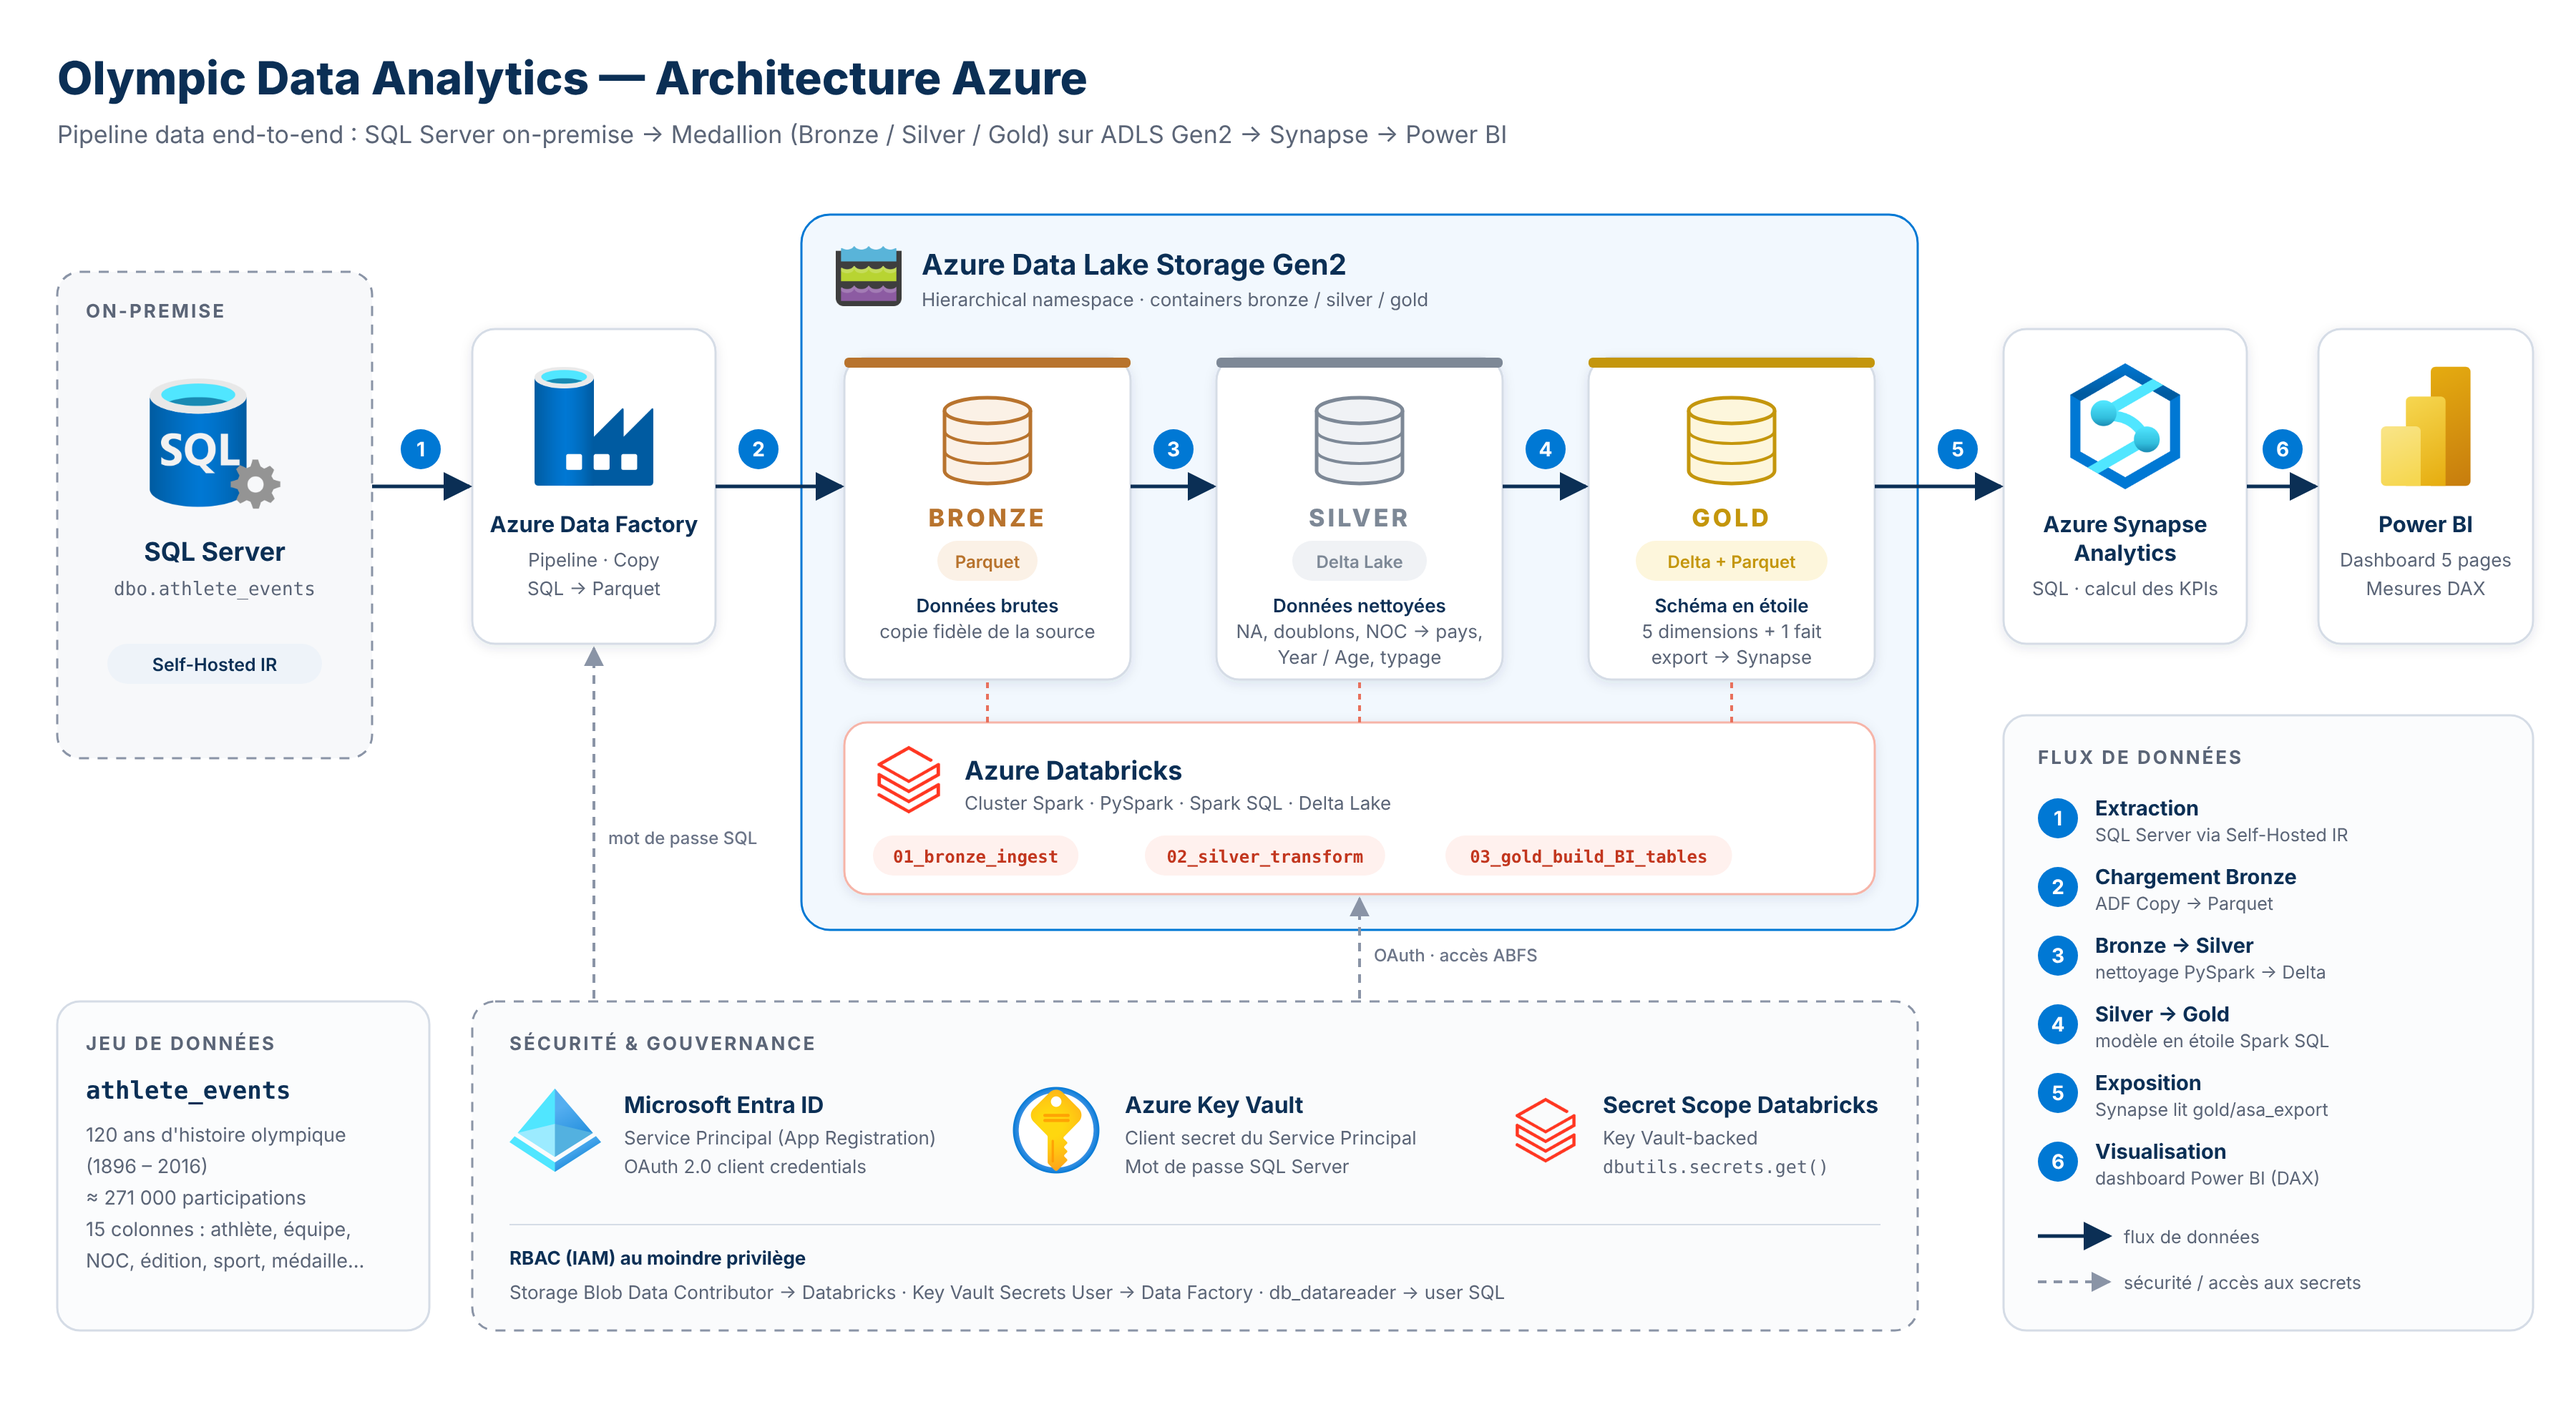
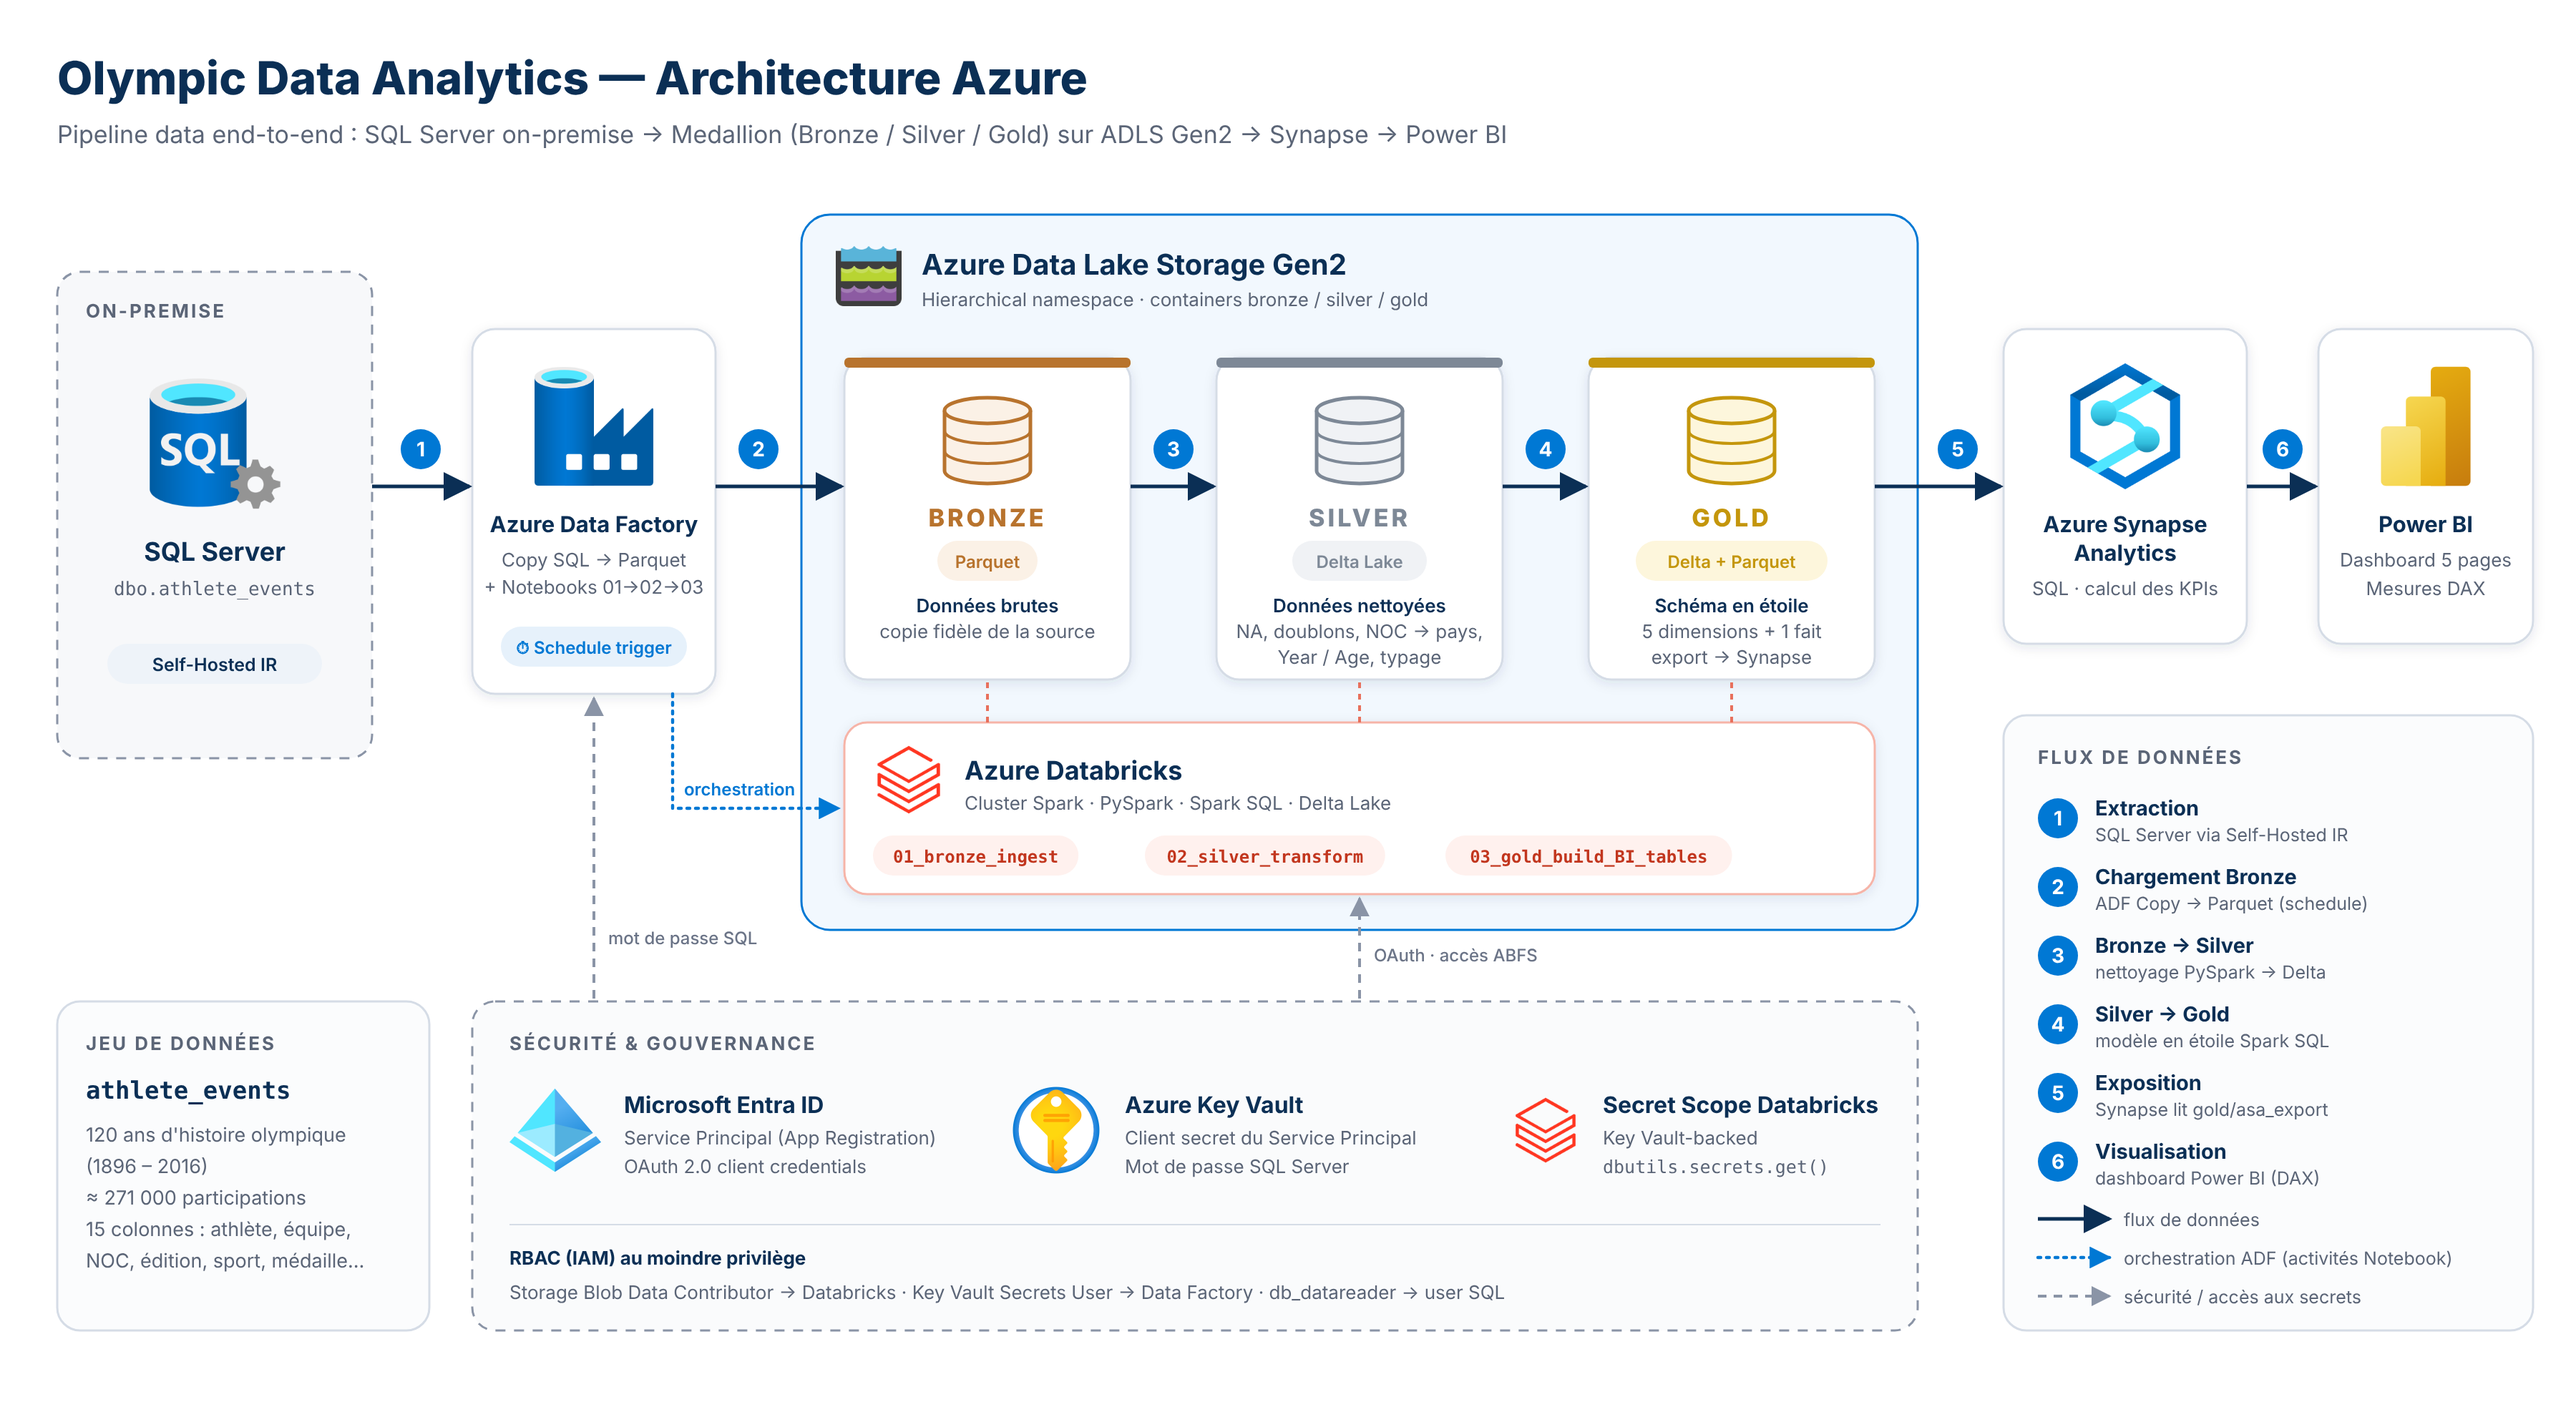
docs: orchestration ADF du pipeline complet, nouveau schéma et section auteur

diff --git a/README.md b/README.md
@@ -60,6 +60,7 @@ On-Prem SQL Server ──(ADF + Self-Hosted IR)──▶ ADLS Gen2 [bronze]  (Pa
                                         Azure Synapse Analytics (SQL)
                                                    ▼
                                                Power BI
+        Orchestration : un pipeline ADF unique (Copy → Notebook 01 → 02 → 03) déclenché par un Schedule Trigger
         Sécurité transverse : Microsoft Entra ID (Service Principal, RBAC) + Azure Key Vault
 ```
 
@@ -70,7 +71,7 @@ On-Prem SQL Server ──(ADF + Self-Hosted IR)──▶ ADLS Gen2 [bronze]  (Pa
 | Couche | Service | Rôle |
 |---|---|---|
 | Source | SQL Server (on-premise) | Table `dbo.athlete_events` |
-| Ingestion | Azure Data Factory + Self-Hosted Integration Runtime | Copie SQL Server → ADLS Gen2 (Parquet) |
+| Ingestion & orchestration | Azure Data Factory + Self-Hosted Integration Runtime | Copie SQL Server → ADLS Gen2 (Parquet), exécution des notebooks Databricks, trigger planifié |
 | Stockage | ADLS Gen2 (namespace hiérarchique) | Containers `bronze`, `silver`, `gold` |
 | Traitement | Azure Databricks (PySpark, Spark SQL, Delta Lake) | Nettoyage, transformation, modélisation |
 | Serving | Azure Synapse Analytics | Requêtes SQL / KPIs sur la couche Gold |
@@ -113,8 +114,9 @@ olympic-data-analytics-azure/
 | 5 | **Bronze** : lecture des données brutes | [`01_bronze_ingest_athletes`](databricks/01_bronze_ingest_athletes.ipynb) |
 | 6 | **Silver** : nettoyage, normalisation, enrichissement → Delta | [`02_silver_transform_athletes`](databricks/02_silver_transform_athletes.ipynb) |
 | 7 | **Gold** : modélisation en étoile + export Parquet pour Synapse | [`03_gold_build_BI_tables`](databricks/03_gold_build_BI_tables.ipynb) |
-| 8 | **Serving** : exposition de la couche Gold dans Synapse Analytics, calcul de KPIs SQL | [Guide §6](docs/setup_guide.md#6-azure-synapse-analytics) |
-| 9 | **Visualisation** : dashboard Power BI (5 pages, mesures DAX) | [`powerbi/`](powerbi/) · [docs](docs/dashboard.md) |
+| 8 | **Orchestration** : pipeline ADF unique *Copy* → *Notebook* 01 → 02 → 03, déclenché par un **Schedule Trigger** | [Guide §6](docs/setup_guide.md#6-orchestration-du-pipeline-dans-adf) |
+| 9 | **Serving** : exposition de la couche Gold dans Synapse Analytics, calcul de KPIs SQL | [Guide §7](docs/setup_guide.md#7-azure-synapse-analytics) |
+| 10 | **Visualisation** : dashboard Power BI (5 pages, mesures DAX) | [`powerbi/`](powerbi/) · [docs](docs/dashboard.md) |
 
 ---
 
@@ -148,7 +150,20 @@ Résultat écrit en **Delta Lake** : `silver/athletes_transformed_data/`.
 - 1 table de faits construite par **jointures null-safe (`<=>`)** pour ne pas perdre les lignes avec attributs nuls.
 - Tables **Delta** dans `gold/dimensions/` et `gold/fact_table/`, plus des **snapshots Parquet** dans `gold/asa_export/` lus par Synapse.
 
-### 5. Serving & BI
+### 5. Orchestration — pipeline ADF de bout en bout
+Le pipeline Data Factory enchaîne toute la chaîne, sans intervention manuelle :
+
+```
+[Copy SQL Server → bronze] ──▶ [Notebook 01_bronze] ──▶ [Notebook 02_silver] ──▶ [Notebook 03_gold]
+              ▲
+     Schedule Trigger (exécution planifiée)
+```
+
+- Activités **Notebook** (Linked Service Azure Databricks) reliées par des dépendances *On success* : une étape ne démarre que si la précédente a réussi.
+- Un **Schedule Trigger** lance le pipeline automatiquement à la fréquence définie.
+- Suivi des exécutions dans l'onglet **Monitor** d'ADF.
+
+### 6. Serving & BI
 Synapse Analytics expose les tables Gold (Parquet) en SQL ; Power BI s'y connecte pour le dashboard.
 
 ---
@@ -238,16 +253,16 @@ Détails : [docs/dashboard.md](docs/dashboard.md)
 
 1. Créer les ressources Azure et les containers → [docs/setup_guide.md](docs/setup_guide.md)
 2. Restaurer `athlete_events` dans SQL Server et exécuter [`sql/onprem_sqlserver_setup.sql`](sql/onprem_sqlserver_setup.sql)
-3. Configurer le SHIR et lancer le pipeline ADF (Copy → `bronze`)
-4. Importer le dossier `databricks/` dans un workspace Databricks, renseigner `<CLIENT_ID>` / `<TENANT_ID>` (et le nom du storage account) dans `00_auth`
-5. Exécuter dans l'ordre : `01_bronze` → `02_silver` → `03_gold`
+3. Importer le dossier `databricks/` dans un workspace Databricks, renseigner `<CLIENT_ID>` / `<TENANT_ID>` (et le nom du storage account) dans `00_auth`
+4. Dans ADF : configurer le SHIR, puis créer le pipeline *Copy* → *Notebook* `01_bronze` → `02_silver` → `03_gold`
+5. Lancer le pipeline (*Trigger now*) puis ajouter un **Schedule Trigger**
 6. Exposer `gold/asa_export/` dans Synapse puis ouvrir le `.pbix` et mettre à jour la source
 
 ---
 
 ## 🔭 Pistes d'amélioration
 
-- Orchestrer les notebooks Databricks depuis ADF (pipeline unique + triggers planifiés)
+- Alertes sur les échecs du pipeline ADF (Azure Monitor) et paramétrage du pipeline (chemins, dates)
 - Chargement incrémental (watermark / Delta `MERGE`) au lieu de `overwrite`
 - Tests de qualité de données (Great Expectations / expectations Delta Live Tables)
 - Unity Catalog pour la gouvernance et le lineage
@@ -258,6 +273,8 @@ Détails : [docs/dashboard.md](docs/dashboard.md)
 ## 👤 Auteur
 
 **Mohammed Basbas** — Data Analyst / Data Engineer
-Ingénieur Data Science & Cloud Computing (ENSA Oujda) · Master 2 Technologies de l'Information (Université de Franche-Comté)
 
-[LinkedIn](https://www.linkedin.com/in/mohammed-basbas)
+Ingénieur en Data Science & Cloud Computing, je conçois des solutions data de bout en bout : de l'ingestion et de la transformation des données (PySpark, SQL, Azure, GCP) jusqu'aux tableaux de bord Power BI qui aident à la décision. Ce projet illustre la mise en place d'une plateforme analytique complète sur Azure.
+
+[![LinkedIn](https://img.shields.io/badge/LinkedIn-mohammed--basbas-0A66C2?style=flat&logo=linkedin&logoColor=white)](https://www.linkedin.com/in/mohammed-basbas)
+[![Email](https://img.shields.io/badge/Email-simobasbas%40gmail.com-D14836?style=flat&logo=gmail&logoColor=white)](mailto:simobasbas@gmail.com)

diff --git a/docs/setup_guide.md b/docs/setup_guide.md
@@ -100,13 +100,26 @@ abfss://<container>@<storage_account>.dfs.core.windows.net/
 ## 5. Traitements Databricks
 
 1. Créer un **cluster** (compute) pour exécuter les notebooks
-2. Exécuter dans l'ordre :
+2. Notebooks (exécutés dans cet ordre, automatiquement par ADF — voir §6) :
    - [`01_bronze_ingest_athletes`](../databricks/01_bronze_ingest_athletes.ipynb)
    - [`02_silver_transform_athletes`](../databricks/02_silver_transform_athletes.ipynb)
    - [`03_gold_build_BI_tables`](../databricks/03_gold_build_BI_tables.ipynb)
 
 ---
 
-## 6. Azure Synapse Analytics
+## 6. Orchestration du pipeline dans ADF
+
+Les notebooks Databricks sont intégrés au **même pipeline** que l'ingestion :
+
+1. Créer un **Linked Service Azure Databricks** dans ADF (workspace + cluster)
+2. Ajouter après l'activité *Copy* trois activités **Notebook** pointant vers `01_bronze_ingest_athletes`, `02_silver_transform_athletes`, `03_gold_build_BI_tables`
+3. Relier les activités par des dépendances **On success** : Copy → 01 → 02 → 03
+4. Tester avec **Debug** / *Trigger now*, puis **Publish all**
+5. Ajouter un **Schedule Trigger** (*Add trigger → New/Edit*) avec la date de début et la récurrence souhaitées
+6. Suivre les exécutions dans **Monitor → Pipeline runs**
+
+---
+
+## 7. Azure Synapse Analytics
 
 Les tables Gold sont exportées en **Parquet** dans `gold/asa_export/<table>/` (notebook 03). Synapse lit ces fichiers depuis ADLS Gen2 pour le calcul des KPIs en SQL et sert de source au dashboard **Power BI**.
